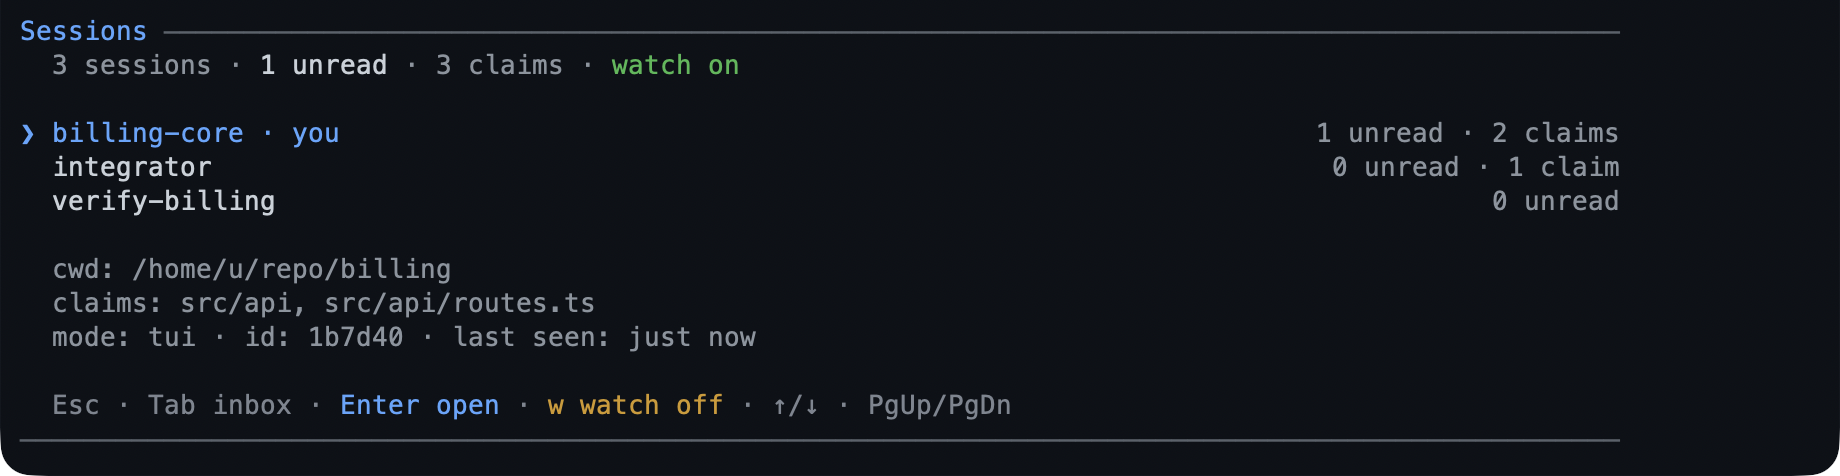
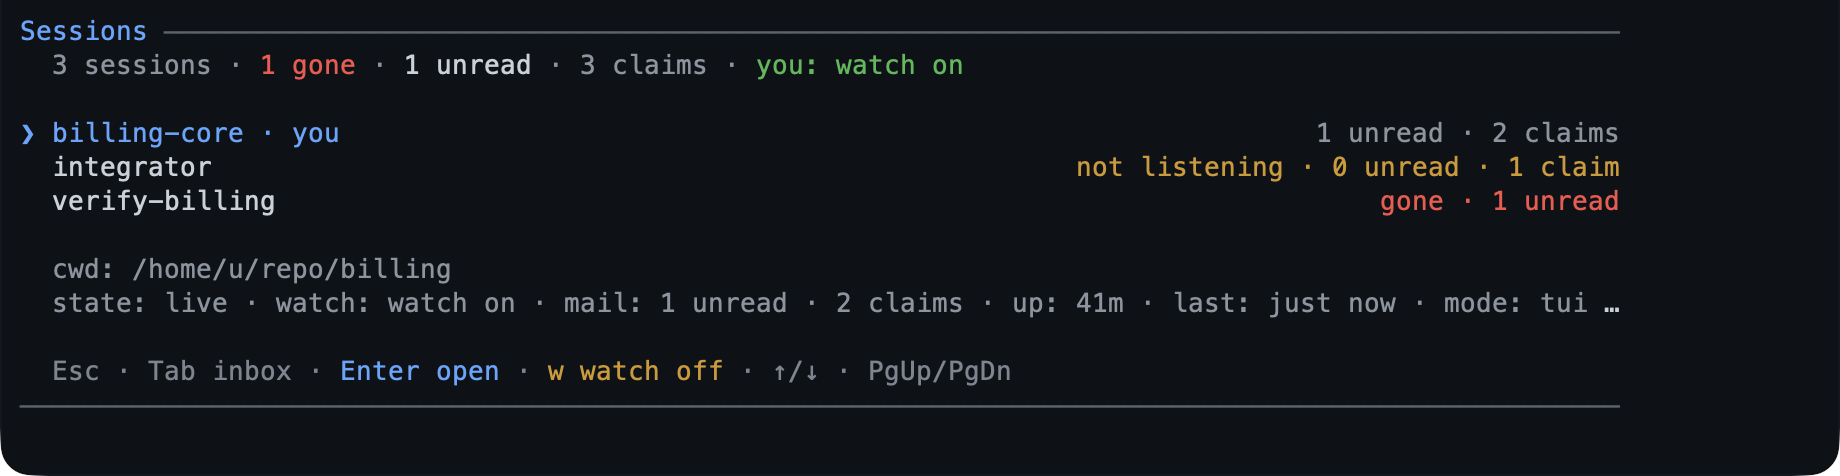
docs(screens): the /sessions frame shows a peer not listening and a row gone
A capture of three healthy rows taught a reader neither mark: the fixture now carries a peer with its watch off and a session whose process is gone, and this session's own record carries the watch the summary chip already draws, so one frame cannot say `you: watch on` beside `watch: not recorded`. The picture and its fingerprint are remade by `bun run capture:screens session`, and `test/screenshots.test.ts` proves the frame it recorded is the frame the renderer draws.

diff --git a/scripts/screens/fixtures/session.ts b/scripts/screens/fixtures/session.ts
@@ -1,6 +1,9 @@
 /**
- * The `/sessions` board's bus: this session, two peers, three held paths, one
- * unread message, and the inbox watch armed.
+ * The `/sessions` board's bus: this session, two peers — one of them not listening and one whose
+ * process is gone — three held paths, one unread message, and the inbox watch armed.
+ *
+ * Both marks the board can draw are here because the frame is what a reader learns them from: a
+ * capture with three healthy rows would show neither.
  */
 
 import type { BoardSnapshot } from "../../../extensions/session-bus/types.ts";
@@ -24,6 +27,9 @@ export const BUS_BOARD: BoardSnapshot = {
 				lastSeen: now - 2_000,
 				unread: 1,
 				state: "live",
+				// The same watch the summary chip draws: one frame cannot say `you: watch on` and
+				// `watch: not recorded` about one session.
+				watching: { armed: true, wake: false },
 			},
 			{
 				id: "8c14de60a2f1",
@@ -36,6 +42,7 @@ export const BUS_BOARD: BoardSnapshot = {
 				lastSeen: now - 4_000,
 				unread: 0,
 				state: "live",
+				watching: { armed: false, wake: false },
 			},
 			{
 				id: "a71f90c3e5b2",
@@ -46,8 +53,8 @@ export const BUS_BOARD: BoardSnapshot = {
 				mode: "rpc",
 				startedAt: now - 12 * 60_000,
 				lastSeen: now - 9_000,
-				unread: 0,
-				state: "live",
+				unread: 1,
+				state: "gone",
 			},
 		],
 		claims: [
